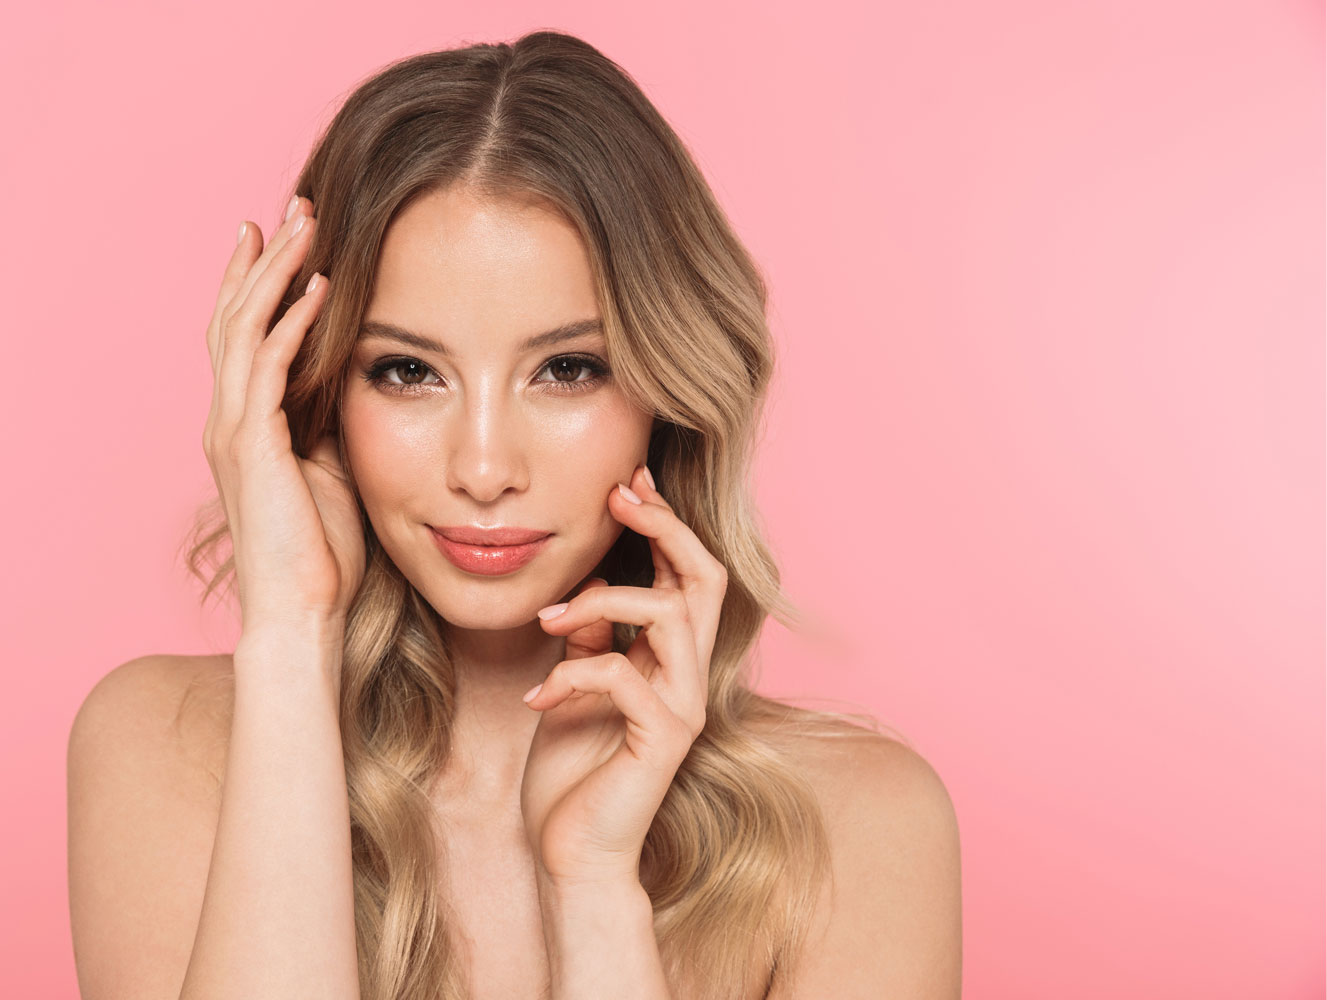
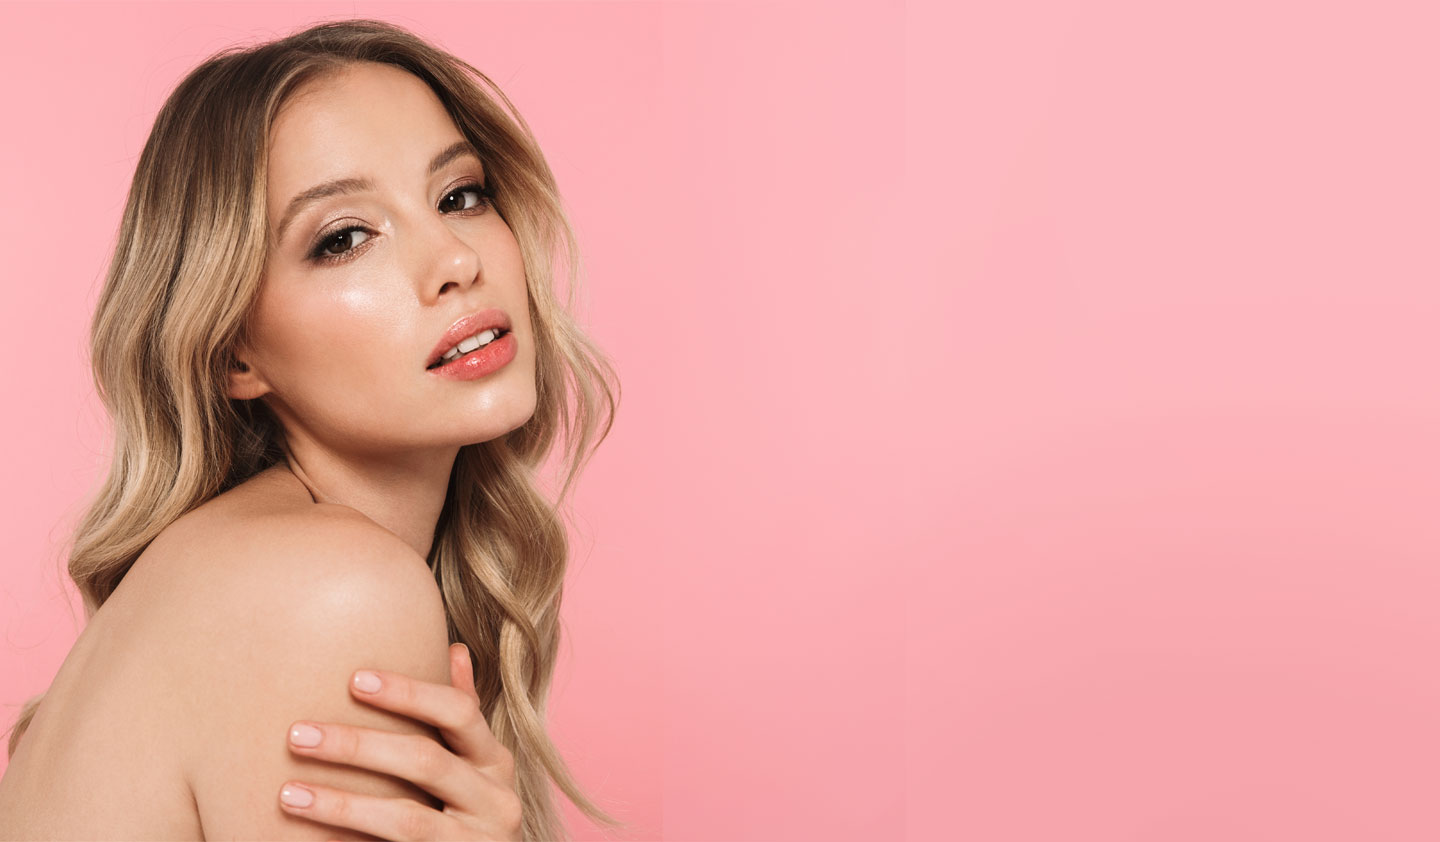
Add new bg image to hero

diff --git a/styles.css b/styles.css
@@ -34,7 +34,7 @@ body {
 }
 
 .nav div.logo a:hover {
-  color: #00E676;
+  color: black;
 }
 
 .nav div.main_list {
@@ -66,7 +66,7 @@ body {
 }
 
 .nav div.main_list ul li a:hover {
-  color: #00E676;
+  color: black;
 }
 
 
@@ -355,12 +355,14 @@ nav a {
   min-height: 100vh;
   max-width: 800px;
   margin: 0 auto;
+  margin-left: 50%;
+  color: black;
 }
 
 .cta-button {
   display: inline-block;
   padding: 15px 35px;
-  background-color: #333;
+  background-color: #AA336A;
   color: #fff;
   text-decoration: none;
   border-radius: 25px;
@@ -422,7 +424,7 @@ footer a {
   }
 }
 
-@media screen and (max-width:768px) {
+@media screen and (max-width:1300px) {
   .navTrigger {
       display: block;
   }
@@ -445,7 +447,7 @@ footer a {
       right: 0;
       left: 0;
       bottom: 0;
-      background-color: #111;
+      background-color: #fff;
       /*same background color of navbar*/
       background-position: center top;
   }
@@ -458,13 +460,14 @@ footer a {
       width: 100%;
       font-size: 2rem;
       padding: 20px;
+      color: #AA336A;
   }
   .nav div.media_button {
       display: block;
   }
 }
 
-@media all and (max-width:700px){
+@media all and (max-width:100px){
   .myP {
     padding:2%;
   }

diff --git a/index.html b/index.html
@@ -18,10 +18,12 @@
           </div>
           <div id="mainListDiv" class="main_list">
               <ul class="navlinks">
-                  <li><a href="#">About</a></li>
-                  <li><a href="#">Portfolio</a></li>
-                  <li><a href="#">Services</a></li>
-                  <li><a href="#">Contact</a></li>
+                  <li><a href="body-treatments.html">Body Treatments</a></li>
+                  <li><a href="facials.html">Facials</a></li>
+                  <li><a href="enhancements.html">Enhancements</a></li>
+                  <li><a href="laser-hair-removal.html">Lase Hair Removal</a></li>
+                  <li><a href="teeth-whitening.html">Teeth Whitening</a></li>
+                  <li><a href="start-your-own-business.html">Start Your Own Business</a></li>
               </ul>
           </div>
           <span class="navTrigger">
